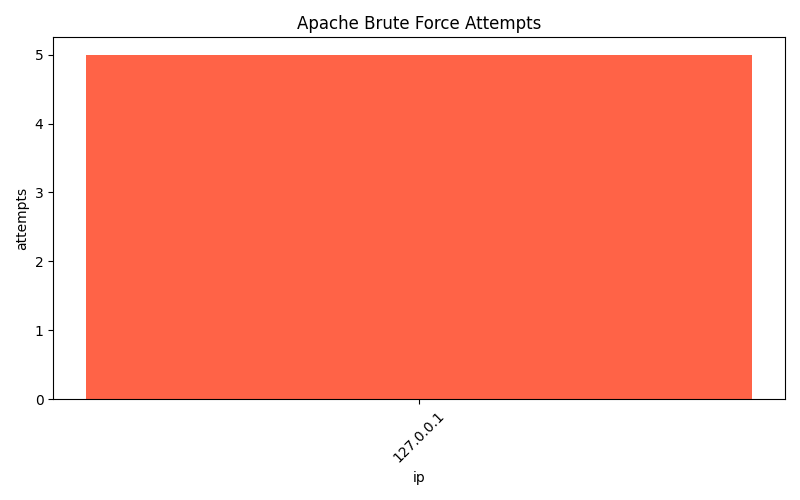
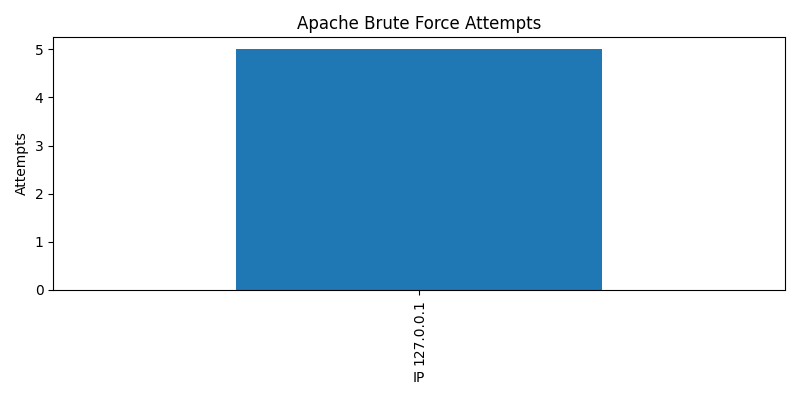
Update README and add Day 4 reports, visualizations, and docs

diff --git a/analyzer.py b/analyzer.py
@@ -1,10 +1,14 @@
 import re
-import pandas as pd
-from pathlib import Path
 import json
+from pathlib import Path
+from datetime import datetime
+
+import pandas as pd
 import matplotlib.pyplot as plt
 
-# === File Paths ===
+# ========================
+# Paths
+# ========================
 LOG_DIR = Path("logs")
 REPORT_DIR = Path("reports")
 REPORT_DIR.mkdir(exist_ok=True)
@@ -12,76 +16,179 @@ REPORT_DIR.mkdir(exist_ok=True)
 APACHE_LOG = LOG_DIR / "apache_access.log"
 SSH_LOG = LOG_DIR / "ssh_auth.log"
 
-# === Regex Patterns ===
+# ========================
+# Regex
+# ========================
 apache_pattern = re.compile(
     r'(?P<ip>\S+) - - \[(?P<time>.*?)\] "(?P<method>\S+) (?P<endpoint>\S+) \S+" (?P<status>\d{3}) (?P<size>\d+)'
 )
 
 ssh_pattern = re.compile(
-    r'(?P<month>\w+) +(?P<day>\d+) (?P<time>\S+) (?P<host>\S+) sshd\[\d+\]: (?P<message>.*)'
+    r'(?P<month>\w+) +(?P<day>\d+) (?P<time>\S+) (?P<host>\S+) sshd\[\d+\]: (?P<message>.+)'
 )
 
-# === Parsing Functions ===
-def parse_apache(log_file):
-    data = []
-    with open(log_file, "r") as f:
-        for line in f:
-            match = apache_pattern.match(line)
-            if match:
-                data.append(match.groupdict())
-    return pd.DataFrame(data)
+ip_in_msg = re.compile(r'from (\d{1,3}(?:\.\d{1,3}){3})')
 
-def parse_ssh(log_file):
-    data = []
-    with open(log_file, "r") as f:
-        for line in f:
-            match = ssh_pattern.match(line)
-            if match:
-                data.append(match.groupdict())
-    return pd.DataFrame(data)
+# ========================
+# Parsers
+# ========================
+def parse_apache(log_file: Path) -> pd.DataFrame:
+    rows = []
+    if not log_file.exists():
+        return pd.DataFrame()
+    with open(log_file, "r", encoding="utf-8", errors="ignore") as fh:
+        for line in fh:
+            m = apache_pattern.match(line)
+            if not m:
+                continue
+            d = m.groupdict()
+            # convert types
+            try:
+                d["status"] = int(d["status"])
+            except Exception:
+                d["status"] = None
+            try:
+                d["size"] = int(d["size"])
+            except Exception:
+                d["size"] = None
+            # parse timestamp to datetime (drop timezone)
+            # e.g. "12/Mar/2025:19:15:01 +0000" -> take first token
+            ts = (d.get("time") or "").split()[0]
+            try:
+                d["dt"] = datetime.strptime(ts, "%d/%b/%Y:%H:%M:%S")
+            except Exception:
+                d["dt"] = None
+            rows.append(d)
+    df = pd.DataFrame(rows)
+    return df
 
-# === Detection Functions ===
-def detect_apache_bruteforce(apache_df):
-    brute = apache_df[apache_df['status'] == '401'].groupby('ip').size().reset_index(name='attempts')
-    flagged = brute[brute['attempts'] >= 5]
-    return flagged
 
-def detect_ssh_bruteforce(ssh_df):
-    brute = ssh_df[ssh_df['message'].str.contains("Failed password", na=False)]
-    brute = brute.groupby('host').size().reset_index(name='attempts')
-    flagged = brute[brute['attempts'] >= 5]
-    return flagged
+def parse_ssh(log_file: Path) -> pd.DataFrame:
+    rows = []
+    if not log_file.exists():
+        return pd.DataFrame()
+    with open(log_file, "r", encoding="utf-8", errors="ignore") as fh:
+        for line in fh:
+            m = ssh_pattern.match(line)
+            if not m:
+                continue
+            d = m.groupdict()
+            # Extract source IP from message
+            ipm = ip_in_msg.search(d["message"])
+            d["ip"] = ipm.group(1) if ipm else None
+            rows.append(d)
+    return pd.DataFrame(rows)
 
-def detect_scanning(apache_df):
-    scan = apache_df.groupby('ip')['endpoint'].nunique().reset_index(name='unique_paths')
-    flagged = scan[scan['unique_paths'] >= 10]
-    return flagged
+# ========================
+# Detections
+# ========================
+def detect_apache_bruteforce(apache_df: pd.DataFrame, threshold: int = 5) -> pd.DataFrame:
+    if apache_df.empty:
+        return pd.DataFrame(columns=["ip", "attempts"])
+    failed = apache_df[(apache_df["status"] == 401) & (apache_df["endpoint"].str.contains("/login", na=False))]
+    counts = failed.groupby("ip").size().reset_index(name="attempts")
+    return counts[counts["attempts"] >= threshold]
 
-def detect_dos(apache_df):
-    dos = apache_df.groupby('ip').size().reset_index(name='req_count')
-    flagged = dos[dos['req_count'] >= 100]
-    return flagged
 
-# === Visualization Function ===
-def plot_bar(df, column, title, filename):
+def detect_ssh_bruteforce(ssh_df: pd.DataFrame, threshold: int = 5) -> pd.DataFrame:
+    if ssh_df.empty:
+        return pd.DataFrame(columns=["ip", "attempts"])
+    failed = ssh_df[ssh_df["message"].str.contains("Failed password", na=False)]
+    counts = failed.groupby("ip").size().reset_index(name="attempts")
+    return counts[counts["attempts"] >= threshold]
+
+
+def detect_scanning(apache_df: pd.DataFrame, threshold: int = 10) -> pd.DataFrame:
+    if apache_df.empty:
+        return pd.DataFrame(columns=["ip", "unique_paths"])
+    uniq = apache_df.groupby("ip")["endpoint"].nunique().reset_index(name="unique_paths")
+    return uniq[uniq["unique_paths"] >= threshold]
+
+
+def detect_dos(apache_df: pd.DataFrame, threshold: int = 100) -> pd.DataFrame:
+    if apache_df.empty:
+        return pd.DataFrame(columns=["ip", "req_count"])
+    counts = apache_df.groupby("ip").size().reset_index(name="req_count")
+    return counts[counts["req_count"] >= threshold]
+
+# ========================
+# Visualizations (Day 4)
+# ========================
+def plot_apache_bruteforce(df: pd.DataFrame, out: Path):
     if df.empty:
-        print(f"No {title} detected to plot.")
+        print("No Apache Brute Force Attempts detected to plot.")
         return
-    plt.figure(figsize=(8,5))
-    plt.bar(df[column[0]], df[column[1]], color='tomato')
-    plt.title(title)
-    plt.xlabel(column[0])
-    plt.ylabel(column[1])
-    plt.xticks(rotation=45)
+    ax = df.set_index("ip")["attempts"].plot(kind="bar", figsize=(8, 4))
+    ax.set_title("Apache Brute Force Attempts")
+    ax.set_xlabel("IP")
+    ax.set_ylabel("Attempts")
     plt.tight_layout()
-    plt.savefig(REPORT_DIR / filename)
+    plt.savefig(out)
     plt.close()
-    print(f"📊 {title} chart saved as {filename}")
+    print(f"📊 Saved: {out.name}")
 
-# === Main Analyzer ===
+
+def plot_ssh_bruteforce(df: pd.DataFrame, out: Path):
+    if df.empty:
+        print("No SSH Brute Force Attempts detected to plot.")
+        return
+    ax = df.set_index("ip")["attempts"].plot(kind="bar", figsize=(8, 4))
+    ax.set_title("SSH Brute Force Attempts")
+    ax.set_xlabel("IP")
+    ax.set_ylabel("Attempts")
+    plt.tight_layout()
+    plt.savefig(out)
+    plt.close()
+    print(f"📊 Saved: {out.name}")
+
+
+def plot_top_ips(apache_df: pd.DataFrame, out: Path, top_n: int = 10):
+    if apache_df.empty:
+        print("No Apache data available to plot Top IPs.")
+        return
+    top = apache_df["ip"].value_counts().head(top_n)
+    if top.empty:
+        print("No IP counts to plot.")
+        return
+    ax = top.plot(kind="bar", figsize=(8, 4))
+    ax.set_title(f"Top {min(top_n, len(top))} IPs by Requests")
+    ax.set_xlabel("IP")
+    ax.set_ylabel("Requests")
+    plt.tight_layout()
+    plt.savefig(out)
+    plt.close()
+    print(f"📊 Saved: {out.name}")
+
+
+def plot_requests_over_time(apache_df: pd.DataFrame, out: Path, freq: str = "1Min"):
+    if apache_df.empty:
+        print("No Apache data available to plot Requests Over Time.")
+        return
+    df = apache_df.dropna(subset=["dt"]).copy()
+    if df.empty:
+        print("No valid timestamps to plot Requests Over Time.")
+        return
+    ts = df.set_index("dt").resample(freq).size()
+    if ts.empty:
+        print("No time-series data to plot.")
+        return
+    ax = ts.plot(figsize=(9, 4))
+    ax.set_title(f"Requests Over Time ({freq} bins)")
+    ax.set_xlabel("Time")
+    ax.set_ylabel("Requests")
+    plt.tight_layout()
+    plt.savefig(out)
+    plt.close()
+    print(f"📈 Saved: {out.name}")
+
+# ========================
+# Main
+# ========================
 def main():
-    print("\n🔎 Log File Analyzer Report\n" + "="*40)
+    print("\n🔎 Log File Analyzer Report")
+    print("=" * 40)
 
+    # Parse logs
     apache_df = parse_apache(APACHE_LOG)
     ssh_df = parse_ssh(SSH_LOG)
 
@@ -89,43 +196,54 @@ def main():
     print(f"- Apache entries: {len(apache_df)}")
     print(f"- SSH entries: {len(ssh_df)}")
 
-    # Run detections
+    # Detections
     apache_brute = detect_apache_bruteforce(apache_df)
     ssh_brute = detect_ssh_bruteforce(ssh_df)
     scanning = detect_scanning(apache_df)
     dos = detect_dos(apache_df)
 
-    # Save reports
-    apache_df.to_csv(REPORT_DIR / "apache_parsed.csv", index=False)
-    ssh_df.to_csv(REPORT_DIR / "ssh_parsed.csv", index=False)
-    apache_brute.to_csv(REPORT_DIR / "apache_bruteforce.csv", index=False)
-    ssh_brute.to_csv(REPORT_DIR / "ssh_bruteforce.csv", index=False)
-    scanning.to_csv(REPORT_DIR / "scanning.csv", index=False)
-    dos.to_csv(REPORT_DIR / "dos.csv", index=False)
-
-    report_summary = {
-        "apache_bruteforce": apache_brute.to_dict(),
-        "ssh_bruteforce": ssh_brute.to_dict(),
-        "scanning": scanning.to_dict(),
-        "dos": dos.to_dict()
-    }
-    with open(REPORT_DIR / "summary.json", "w") as f:
-        json.dump(report_summary, f, indent=4)
-
-    # Print summary
     print("\n🚨 Suspicious Activity Detected:")
     print(f"- Apache Brute Force Attempts: {len(apache_brute)}")
     print(f"- SSH Brute Force Attempts: {len(ssh_brute)}")
     print(f"- Scanning Attempts: {len(scanning)}")
     print(f"- Possible DoS Attempts: {len(dos)}")
 
-    # Plot visualizations
-    plot_bar(apache_brute, ['ip','attempts'], "Apache Brute Force Attempts", "apache_bruteforce.png")
-    plot_bar(ssh_brute, ['host','attempts'], "SSH Brute Force Attempts", "ssh_bruteforce.png")
-    plot_bar(scanning, ['ip','unique_paths'], "Scanning Attempts", "scanning.png")
-    plot_bar(dos, ['ip','req_count'], "Possible DoS Attempts", "dos.png")
+    # Save parsed CSVs
+    apache_df.to_csv(REPORT_DIR / "apache_parsed.csv", index=False)
+    ssh_df.to_csv(REPORT_DIR / "ssh_parsed.csv", index=False)
+
+    # Save detection CSVs
+    apache_brute.to_csv(REPORT_DIR / "apache_bruteforce.csv", index=False)
+    ssh_brute.to_csv(REPORT_DIR / "ssh_bruteforce.csv", index=False)
+    scanning.to_csv(REPORT_DIR / "scanning.csv", index=False)
+    dos.to_csv(REPORT_DIR / "dos.csv", index=False)
+
+    # Save JSON summary
+    summary = {
+        "counts": {
+            "apache_entries": int(len(apache_df)),
+            "ssh_entries": int(len(ssh_df)),
+        },
+        "detections": {
+            "apache_bruteforce": apache_brute.to_dict(orient="records"),
+            "ssh_bruteforce": ssh_brute.to_dict(orient="records"),
+            "scanning": scanning.to_dict(orient="records"),
+            "dos": dos.to_dict(orient="records"),
+        },
+    }
+    with open(REPORT_DIR / "summary.json", "w", encoding="utf-8") as f:
+        json.dump(summary, f, indent=2)
+
+    # Charts (existing)
+    plot_apache_bruteforce(apache_brute, REPORT_DIR / "apache_bruteforce.png")
+    plot_ssh_bruteforce(ssh_brute, REPORT_DIR / "ssh_bruteforce.png")
+
+    # === NEW Day 4 charts ===
+    plot_top_ips(apache_df, REPORT_DIR / "top_ips.png", top_n=10)
+    plot_requests_over_time(apache_df, REPORT_DIR / "requests_over_time.png", freq="1Min")
 
     print("\n📂 Detailed reports and charts saved in 'reports/' folder.")
+
 
 if __name__ == "__main__":
     main()

diff --git a/docs/PLAN_DAY4.md b/docs/PLAN_DAY4.md
@@ -1,0 +1,16 @@
+# Day 4 Plan – Log File Analyzer
+
+## Visualizations to Add
+- Access patterns by **IP address** (top 10 offenders).
+- Requests over **time** (line chart).
+- Comparison of **normal vs suspicious activity**.
+
+## Extras
+- Summary report combining CSV + JSON into one easy-to-read markdown report.
+- Add option to export PDF for visualizations.
+- Prepare future step: link logs → detection → visualization → report.
+
+## Notes
+- Keep code modular (functions per task).
+- Save all new charts into `reports/` folder.
+- Update README with Day-4 progress.
